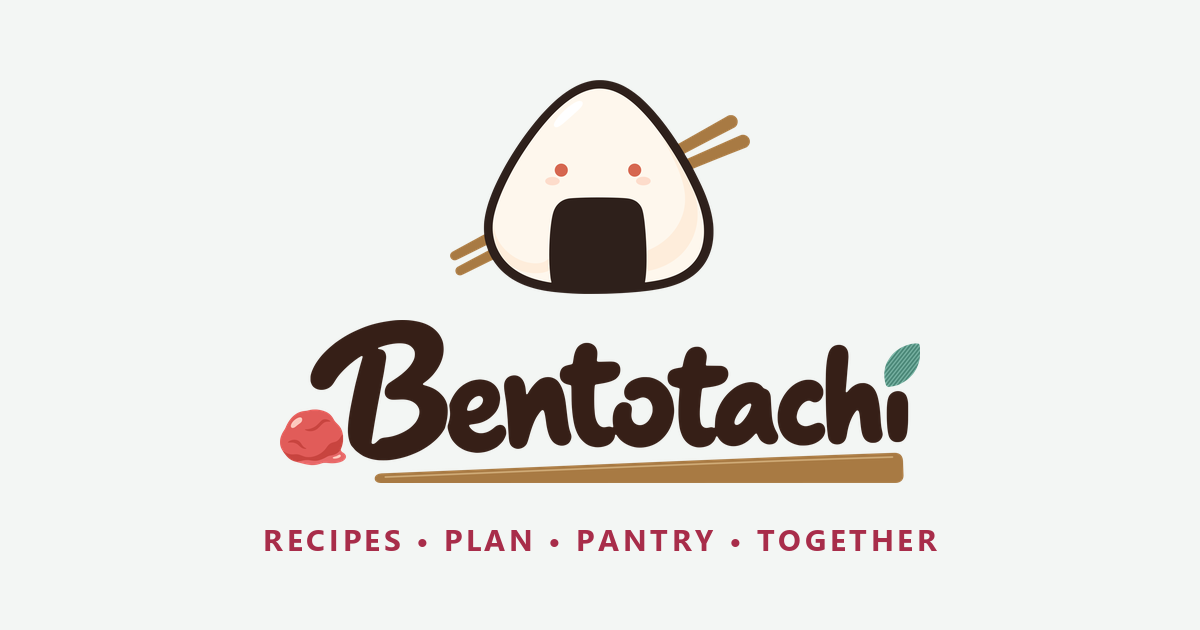
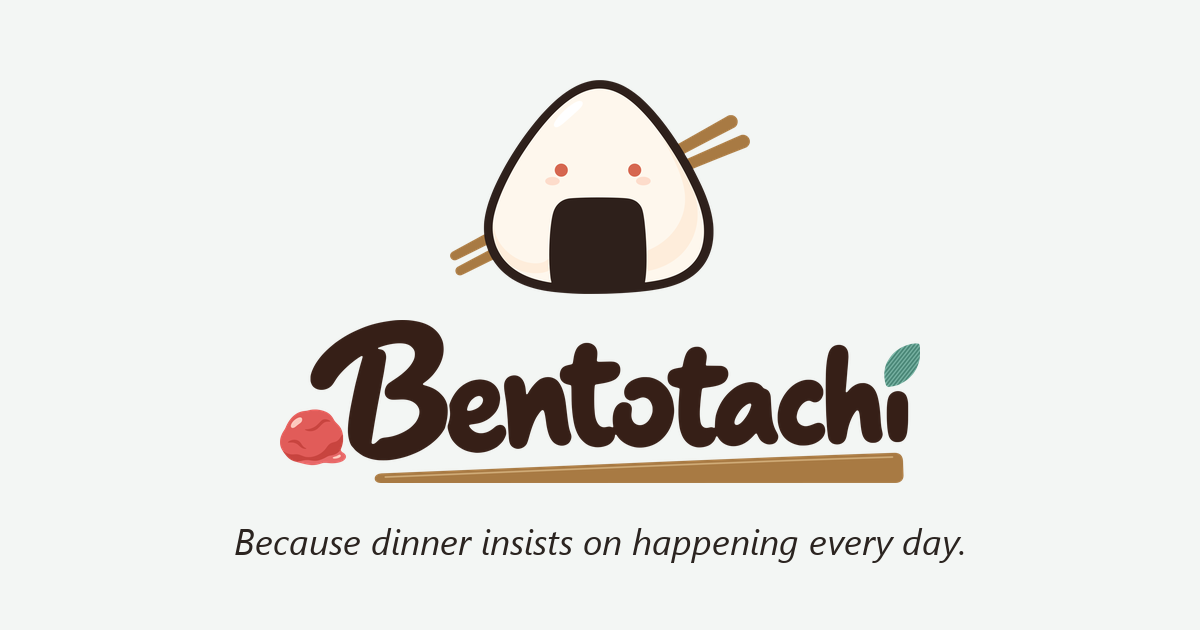
Bentotachi: a new link preview card (tagline in plain italics) and "no maths needed" on the page

Changed region(s): [[0.185, 0.8444, 0.8017, 0.9048]]

diff --git a/bentotachi/index.html b/bentotachi/index.html
@@ -78,7 +78,7 @@
           running low, and leave notes like "3 packets, DO NOT BUY MORE".
         </li>
         <li>
-          <strong>Cook with it</strong>Double a recipe for guests (the maths is done for you), tap "10 min" in a step to
+          <strong>Cook with it</strong>Double a recipe for guests (no maths needed), tap "10 min" in a step to
           start a timer, tick off steps as you go, and time how long a recipe <em>really</em> takes (not the "ready in
           20 minutes" lie). Then share it with the friend who asked.
         </li>

diff --git a/branding/make_bentotachi_page.py b/branding/make_bentotachi_page.py
@@ -8,7 +8,7 @@
 # The Bentotachi repo defaults to C:\Projects\TheKoiPond\bentotachi. Rerun
 # this when Ben, the title or Bentotachi's colours change (copy the SVGs into
 # bentotachi/ first; see the Bentotachi repo's branding/README.md). It needs
-# Pillow, Inkscape 1.4 at the path below, and Segoe UI Bold (Windows).
+# Pillow, Inkscape 1.4 at the path below, and Segoe UI Italic (Windows).
 import subprocess
 import sys
 import tempfile
@@ -21,11 +21,11 @@ SITE = Path(__file__).resolve().parents[1]
 OUT = SITE / "bentotachi"
 BENTO = Path(sys.argv[1] if len(sys.argv) > 1 else r"C:\Projects\TheKoiPond\bentotachi")
 ASSETS = BENTO / "web" / "src" / "assets"
-FONT = r"C:\Windows\Fonts\segoeuib.ttf"
+ITALIC = r"C:\Windows\Fonts\segoeuii.ttf"
 
-# Bentotachi's light colours (its docs/VISION.md): tea-rice and umeboshi.
+# Bentotachi's light colours (its docs/VISION.md): tea-rice and its text.
 BG = "#f3f6f4"
-PLUM = "#a82d4a"
+TEXT = "#2b2420"
 
 
 def render(svg, width):
@@ -50,14 +50,12 @@ card.alpha_composite(ben, ((1200 - ben.width) // 2, 80))
 title = fit(render(ASSETS / "bentotachi-title.svg", 2400), 640)
 card.alpha_composite(title, ((1200 - title.width) // 2, 320))
 
+# The tagline as a plain sentence (Bentotachi's VISION.md, 2026-11-04: no
+# letter-spaced capitals with dots between them).
 draw = ImageDraw.Draw(card)
-font = ImageFont.truetype(FONT, 30)
-text, spacing = "RECIPES • PLAN • PANTRY • TOGETHER", 3.6
-widths = [draw.textlength(ch, font=font) for ch in text]
-x = (1200 - (sum(widths) + spacing * (len(text) - 1))) / 2
-for ch, w in zip(text, widths):
-    draw.text((x, 518), ch, font=font, fill=PLUM)
-    x += w + spacing
+font = ImageFont.truetype(ITALIC, 36)
+text = "Because dinner insists on happening every day."
+draw.text(((1200 - draw.textlength(text, font=font)) / 2, 516), text, font=font, fill=TEXT)
 card.convert("RGB").save(OUT / "og-card.png", optimize=True)
 
 # Phone home screens need a solid square: Ben on the page background.
